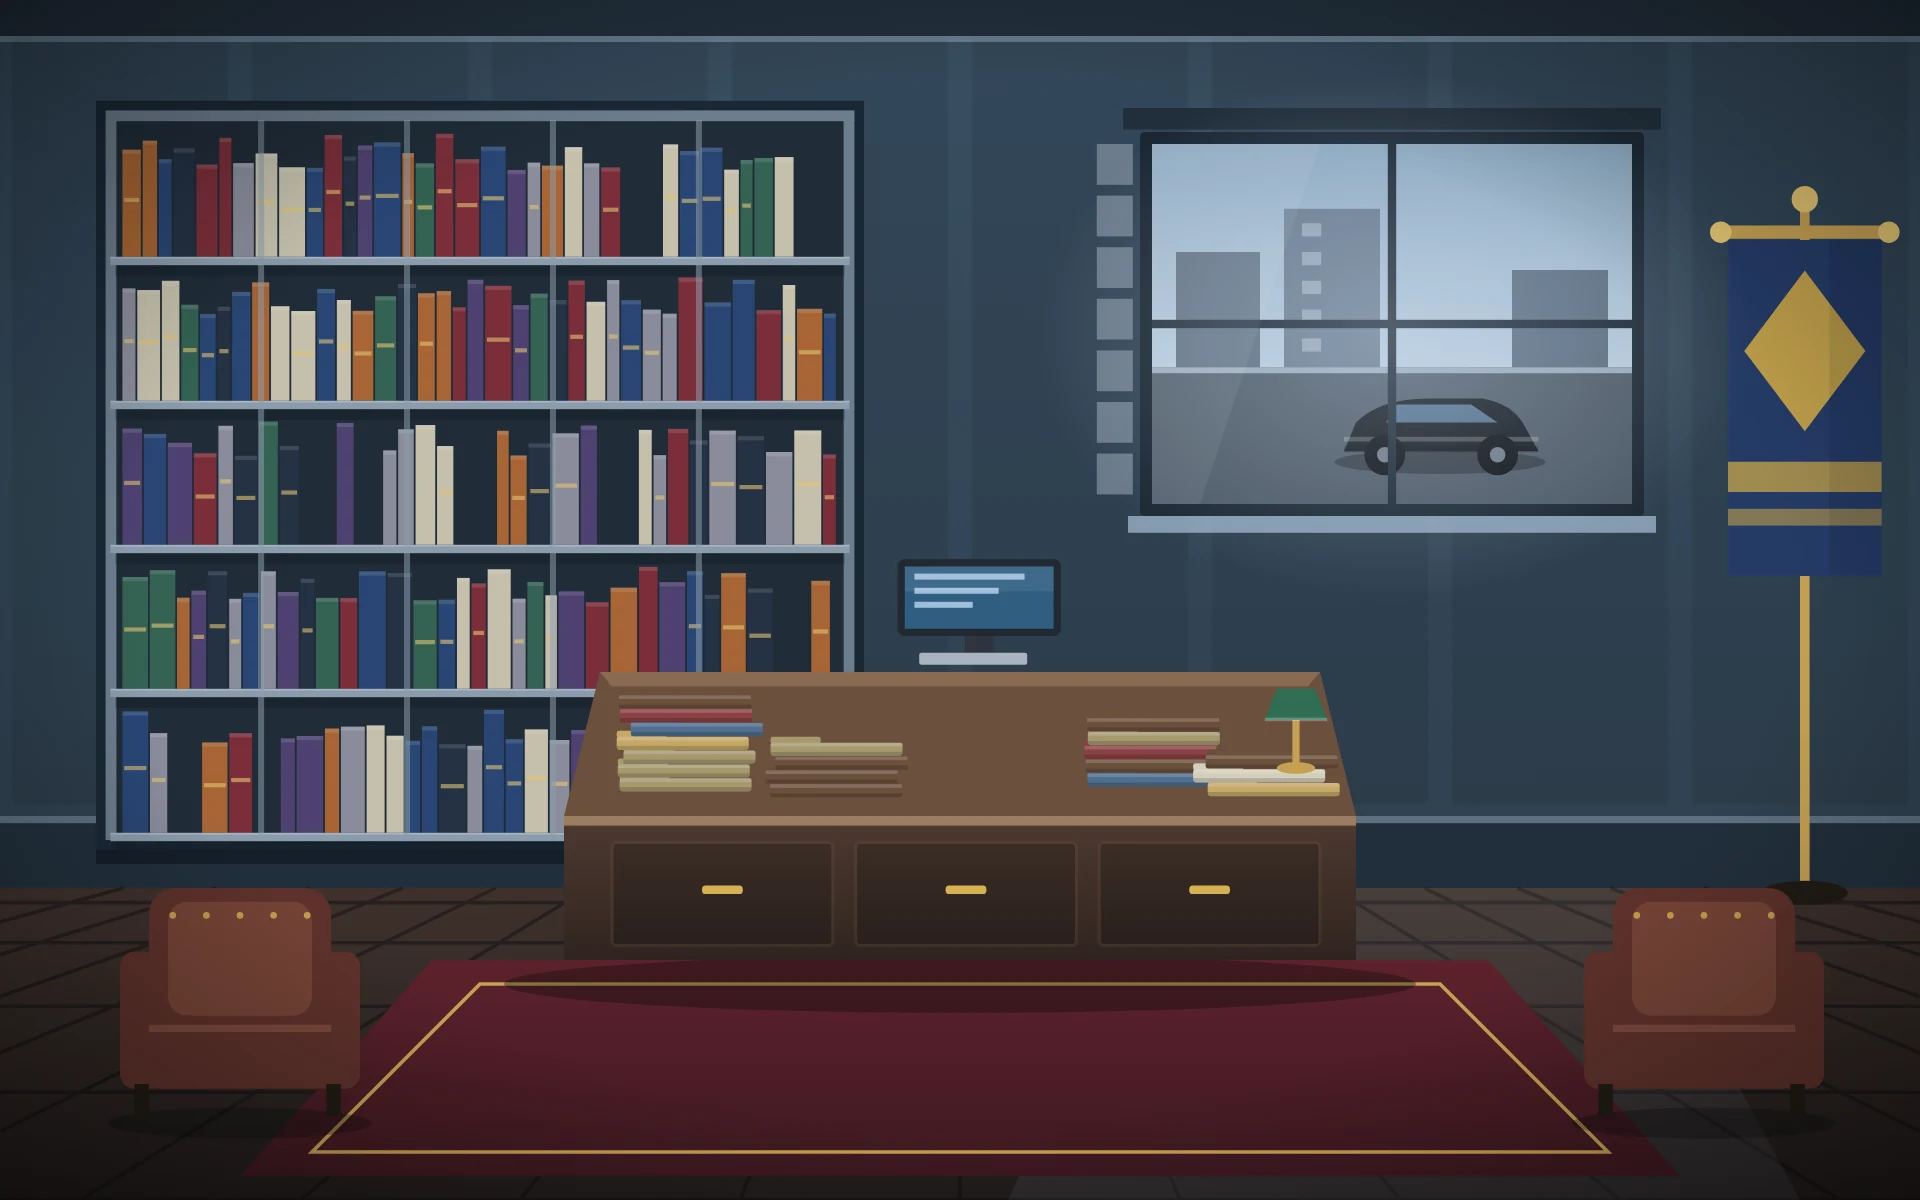
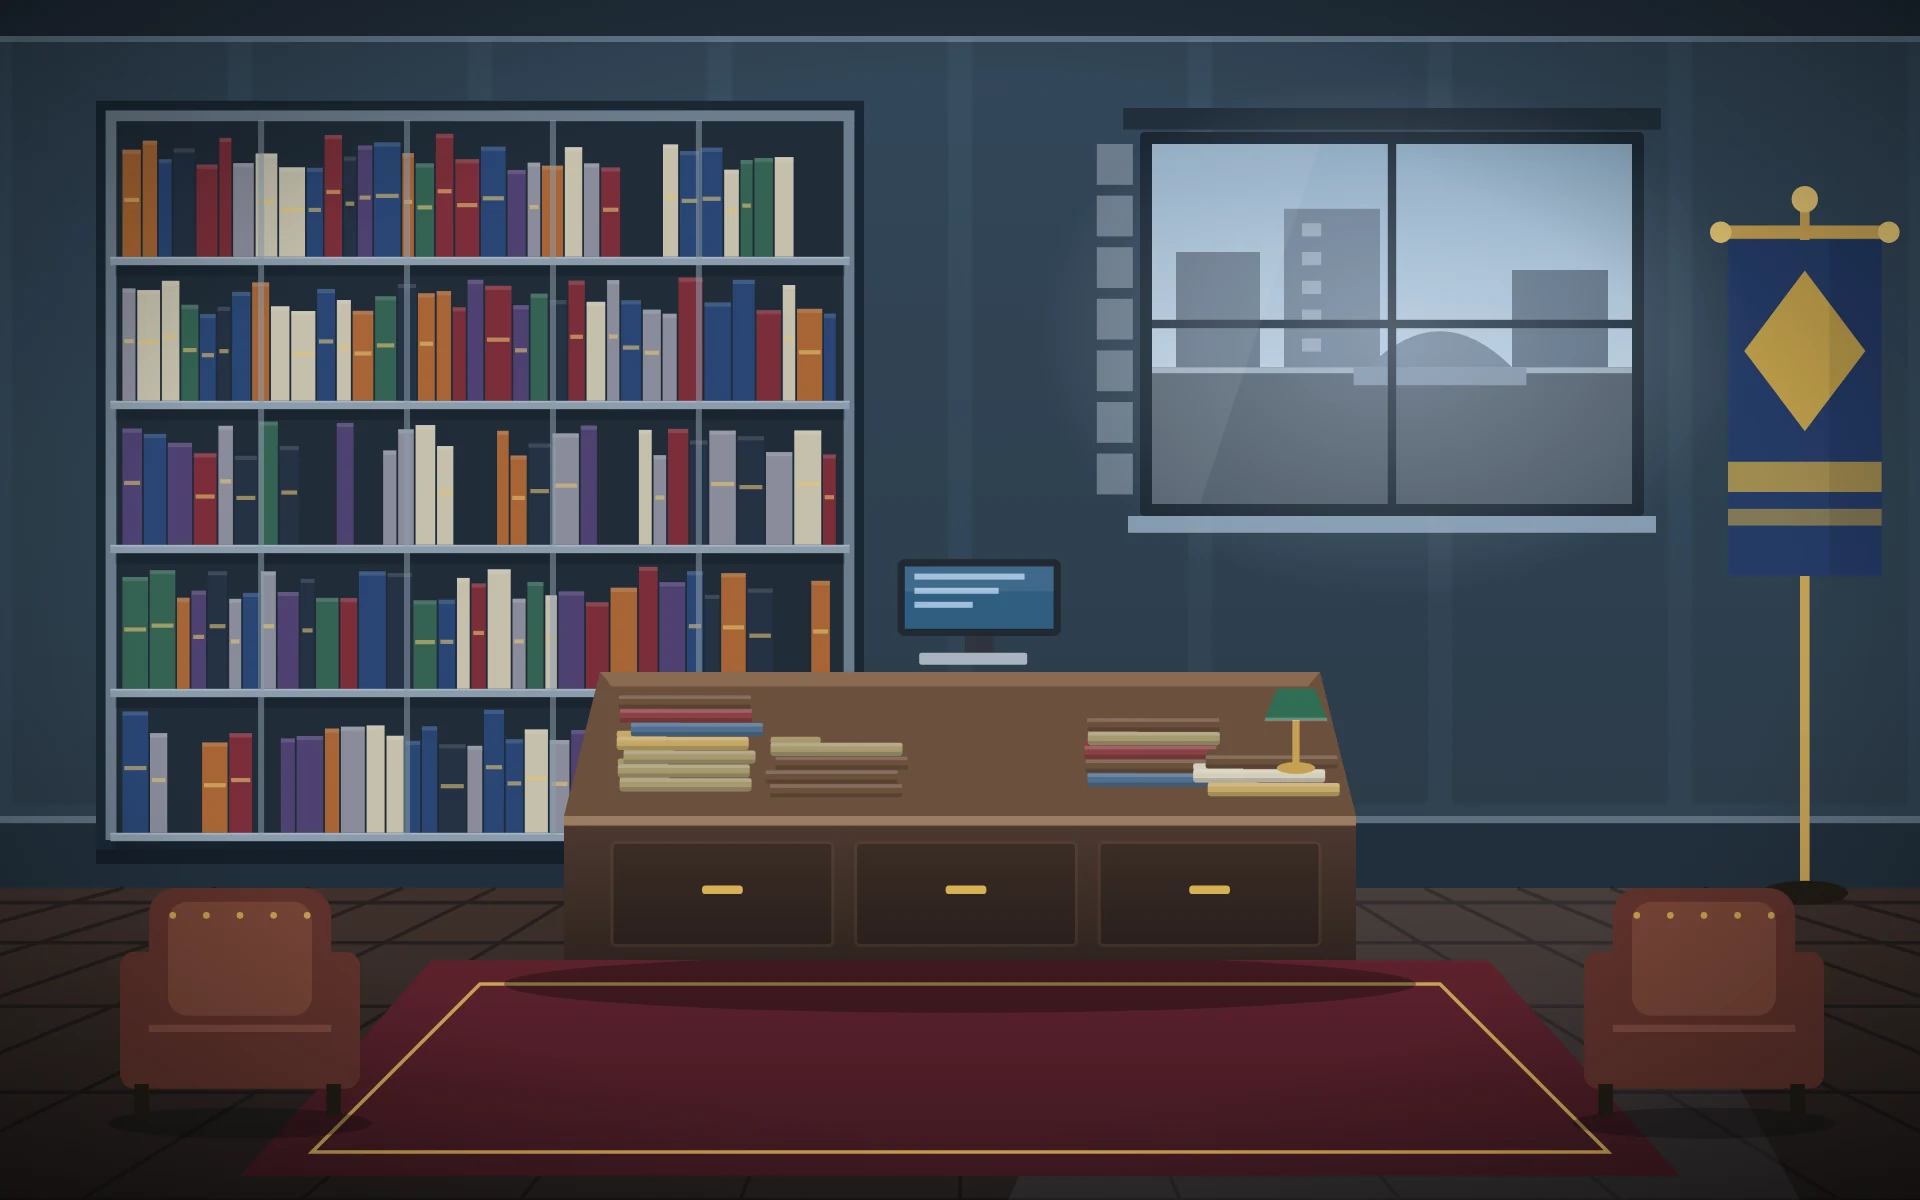
art(cenarios): gabinete_instrutor_stf sem carro na janela

Changed region(s): [[0.6875, 0.2775, 0.8125, 0.4008]]

diff --git a/tools/cenarios/lote1a.py b/tools/cenarios/lote1a.py
@@ -24,7 +24,7 @@ def gabinete_instrutor_stf():
     ex = (R(wx, wy + wh * .62, ww, wh * .38, "#4a5560") + R(wx, wy + wh * .62, ww, .5, "#9aa8b4") +
           R(wx + 2, wy + wh * .3, 7, wh * .32, "#586878") + R(wx + 11, wy + wh * .18, 8, wh * .44, "#667688") + R(wx + 30, wy + wh * .35, 8, wh * .27, "#586878"))
     for k in range(5): ex += R(wx + 12.5, wy + wh * .22 + k * 2.4, 1.6, 1.1, "#e8f0f8", .35)
-    ex += car_side(wx + ww * .6, wy + wh * .82, 1.0, "#0d1014")
+    ex += PATH(f"M{f(wx+ww*.45)} {f(wy+wh*.62)} Q{f(wx+ww*.6)} {f(wy+wh*.42)} {f(wx+ww*.75)} {f(wy+wh*.62)}Z", fill="#6a7a8c") + R(wx + ww * .42, wy + wh * .62, ww * .36, wh * .05, "#7a8a9a")
     b.append(R(wx - 2.4, wy - 3, ww + 4.8, 1.8, "#1c2832"))
     b.append(R(wx - 2, wy + wh + 1, ww + 4, 1.4, "#9ab0c4", .8))
     b.append(window(wx, wy, ww, wh, "sk" + s, frame="#16202a", mull=(1, 1), extra=ex))
